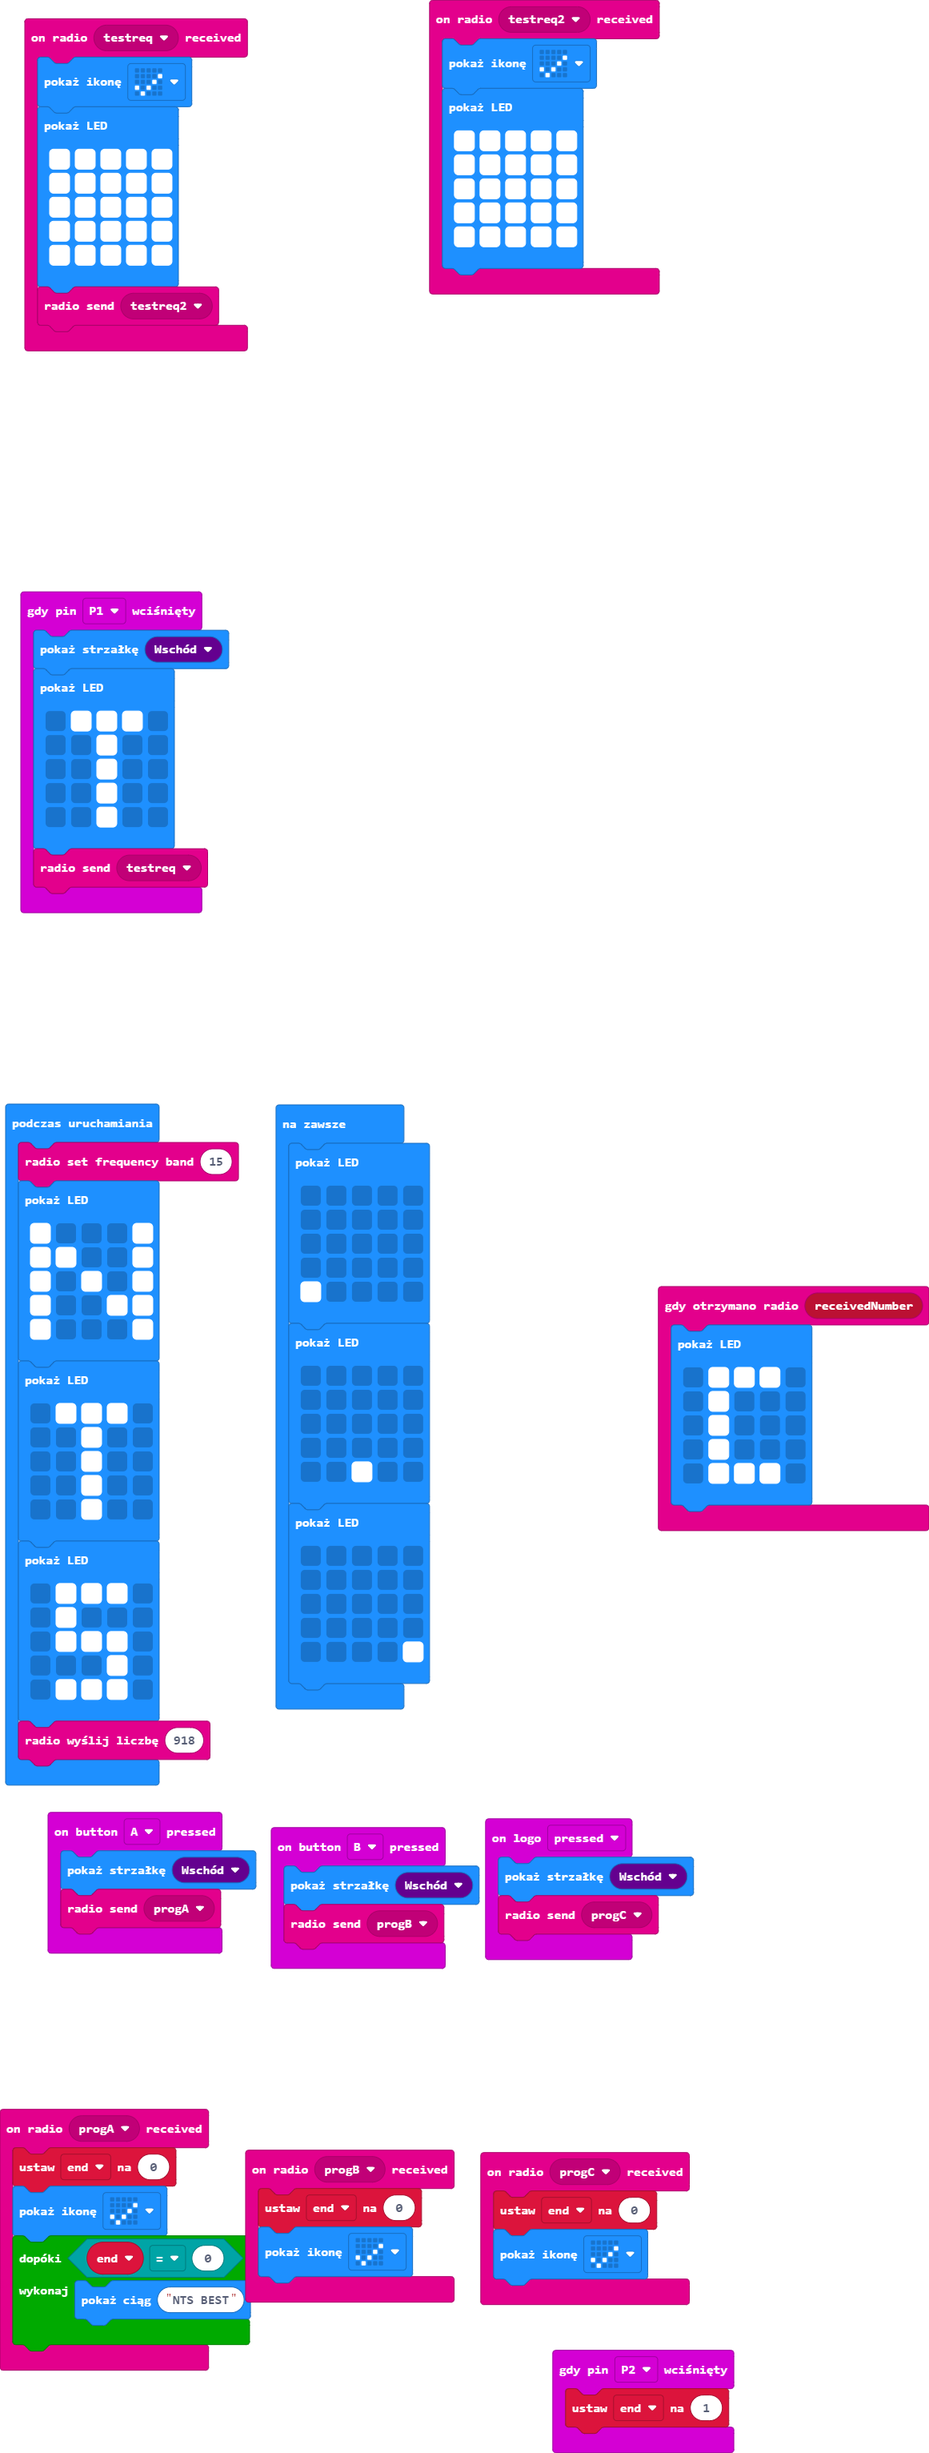
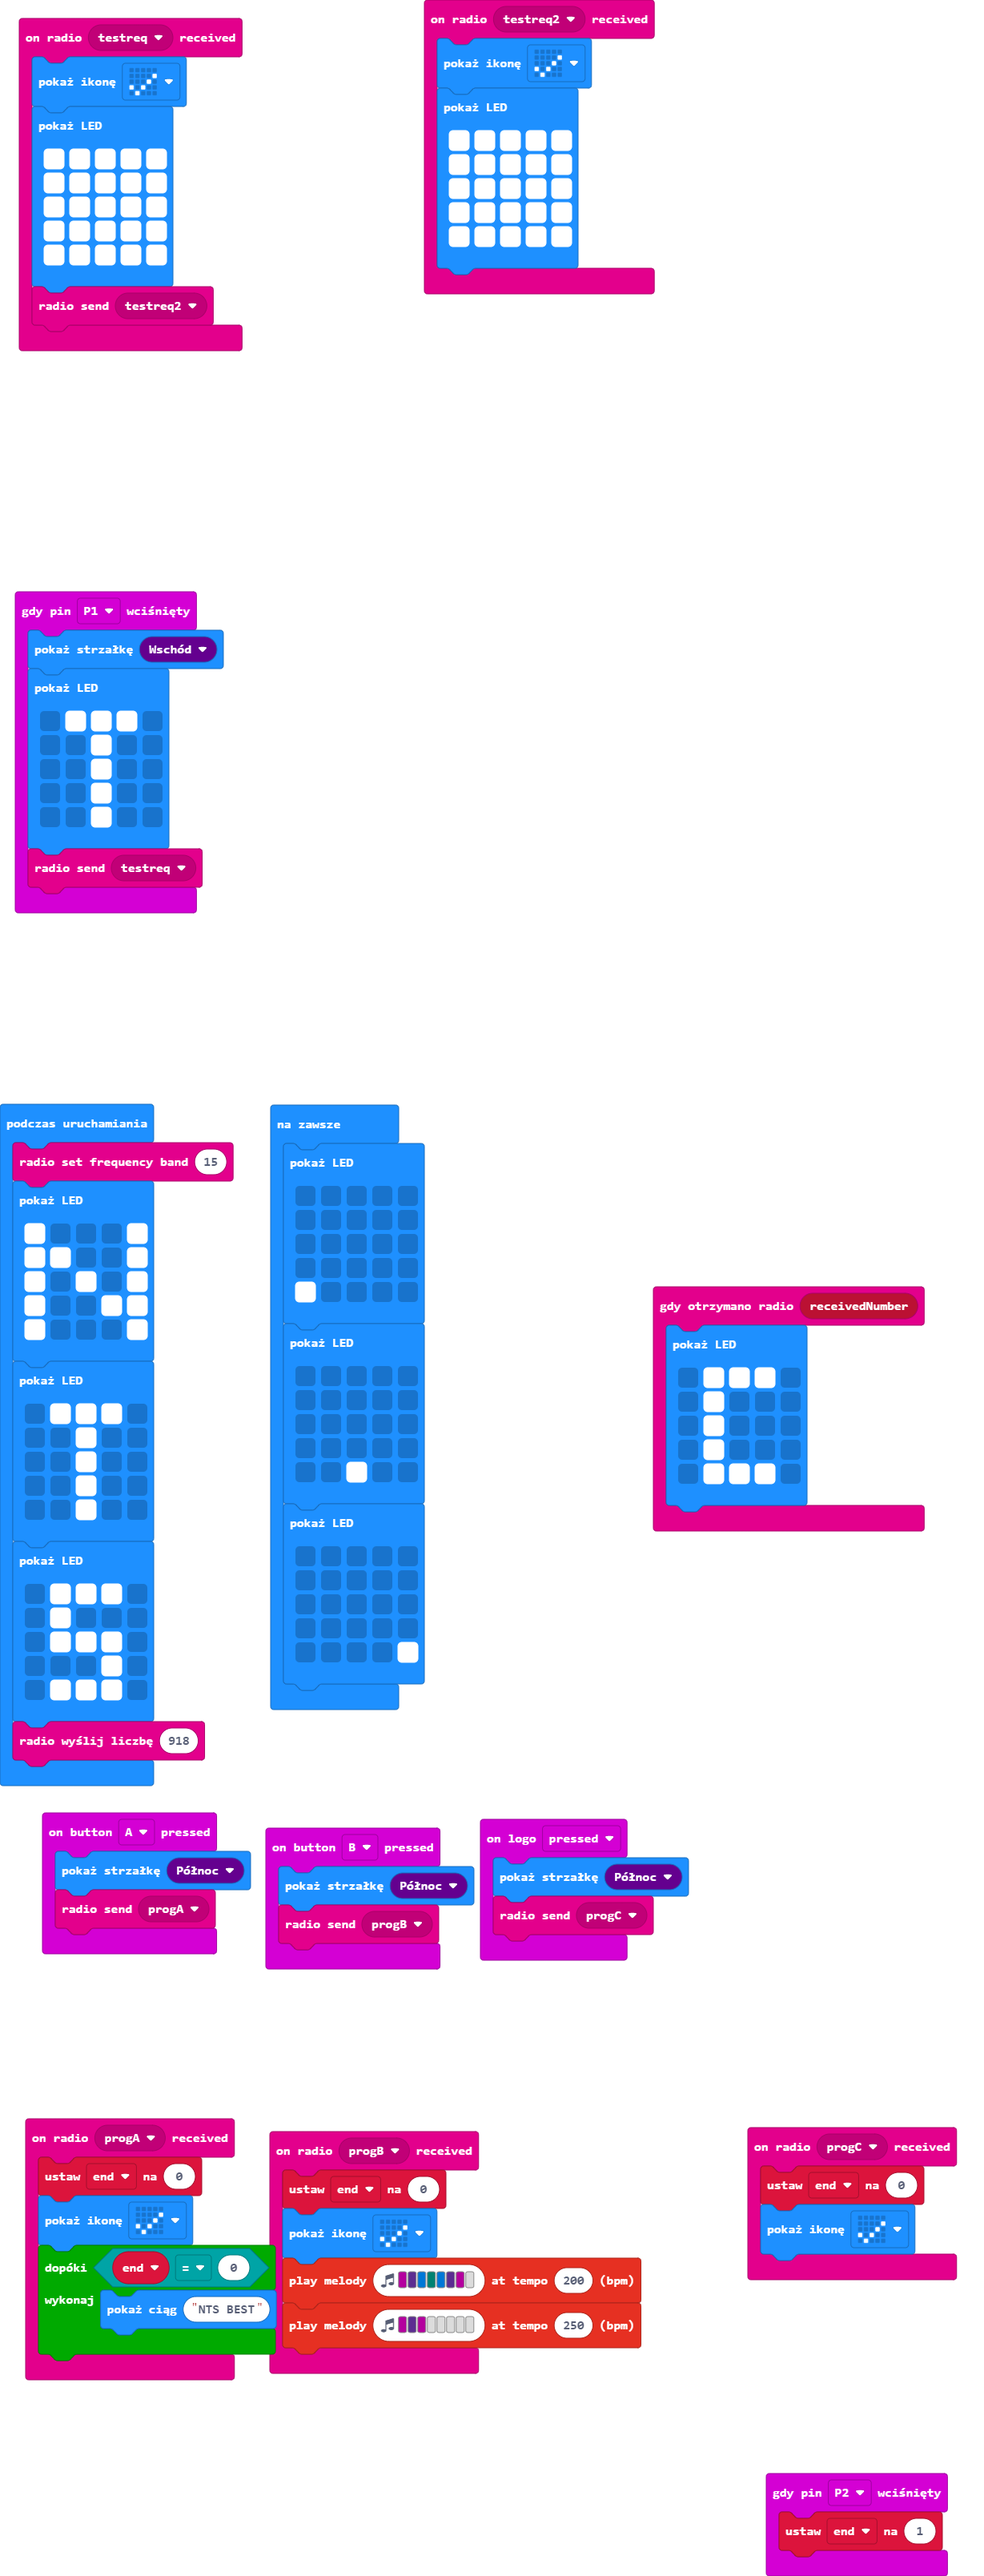
Aktualizacja pxt.json, main.blocks, main.ts

diff --git a/main.ts b/main.ts
@@ -38,7 +38,7 @@ radio.onReceivedMessage(RadioMessage.testreq, function () {
     radio.sendMessage(RadioMessage.testreq2)
 })
 input.onButtonPressed(Button.A, function () {
-    basic.showArrow(ArrowNames.East)
+    basic.showArrow(ArrowNames.North)
     radio.sendMessage(RadioMessage.progA)
 })
 radio.onReceivedMessage(RadioMessage.testreq2, function () {
@@ -54,12 +54,14 @@ radio.onReceivedMessage(RadioMessage.testreq2, function () {
 radio.onReceivedMessage(RadioMessage.progB, function () {
     end = 0
     basic.showIcon(IconNames.Yes)
+    music.playMelody("C D E F E D C - ", 200)
+    music.playMelody("C D C - - - - - ", 250)
 })
 input.onPinPressed(TouchPin.P2, function () {
     end = 1
 })
 input.onButtonPressed(Button.B, function () {
-    basic.showArrow(ArrowNames.East)
+    basic.showArrow(ArrowNames.North)
     radio.sendMessage(RadioMessage.progB)
 })
 input.onPinPressed(TouchPin.P1, function () {
@@ -74,7 +76,7 @@ input.onPinPressed(TouchPin.P1, function () {
     radio.sendMessage(RadioMessage.testreq)
 })
 input.onLogoEvent(TouchButtonEvent.Pressed, function () {
-    basic.showArrow(ArrowNames.East)
+    basic.showArrow(ArrowNames.North)
     radio.sendMessage(RadioMessage.progC)
 })
 let end = 0
